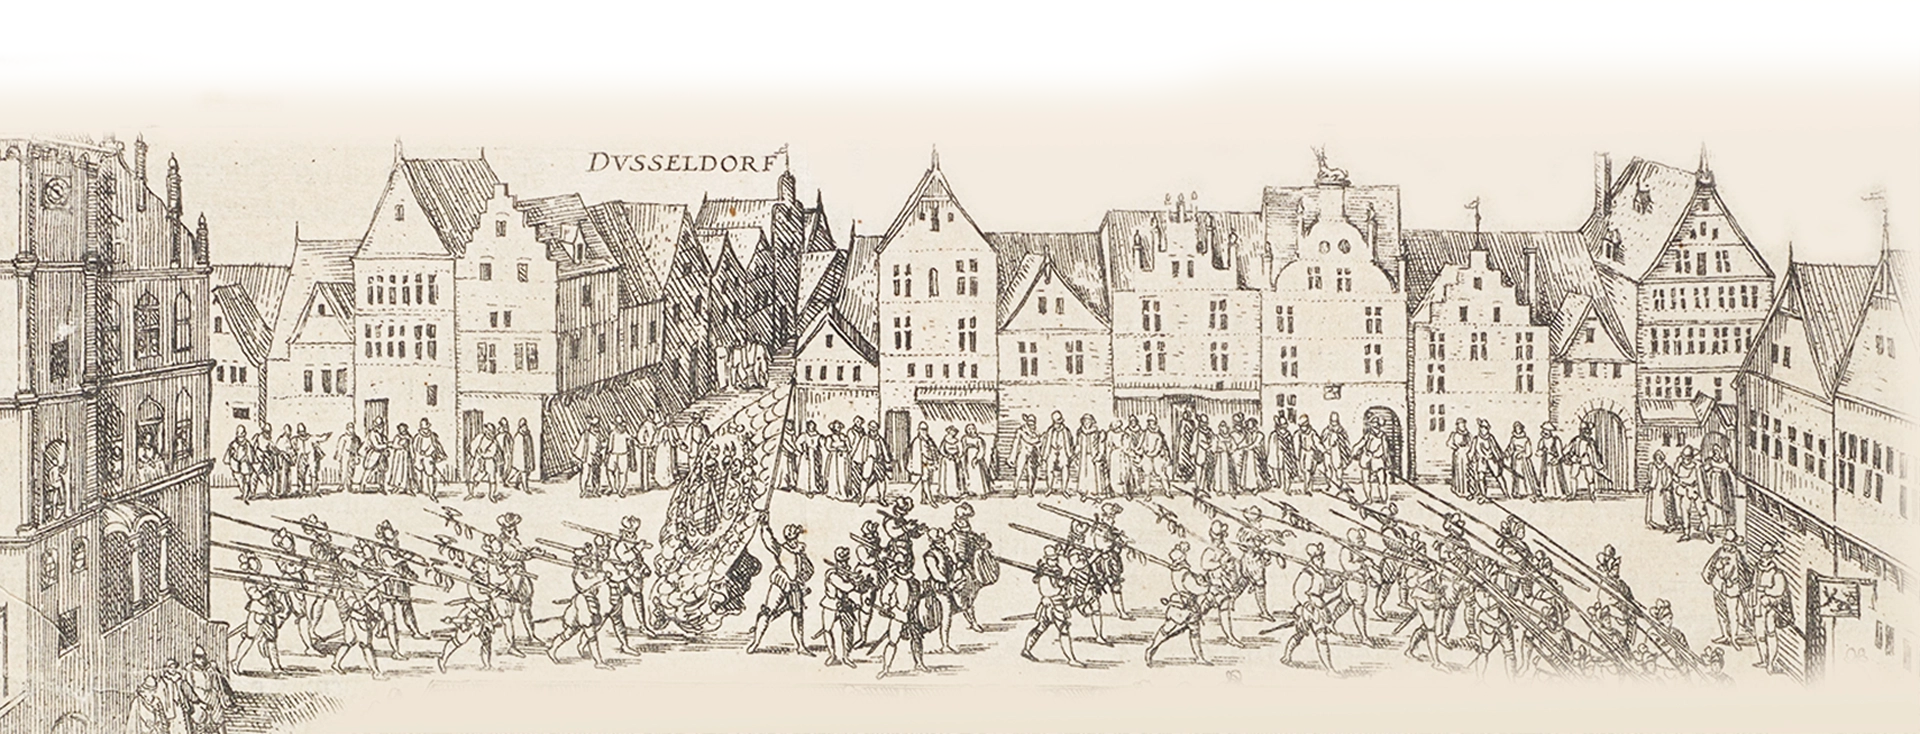
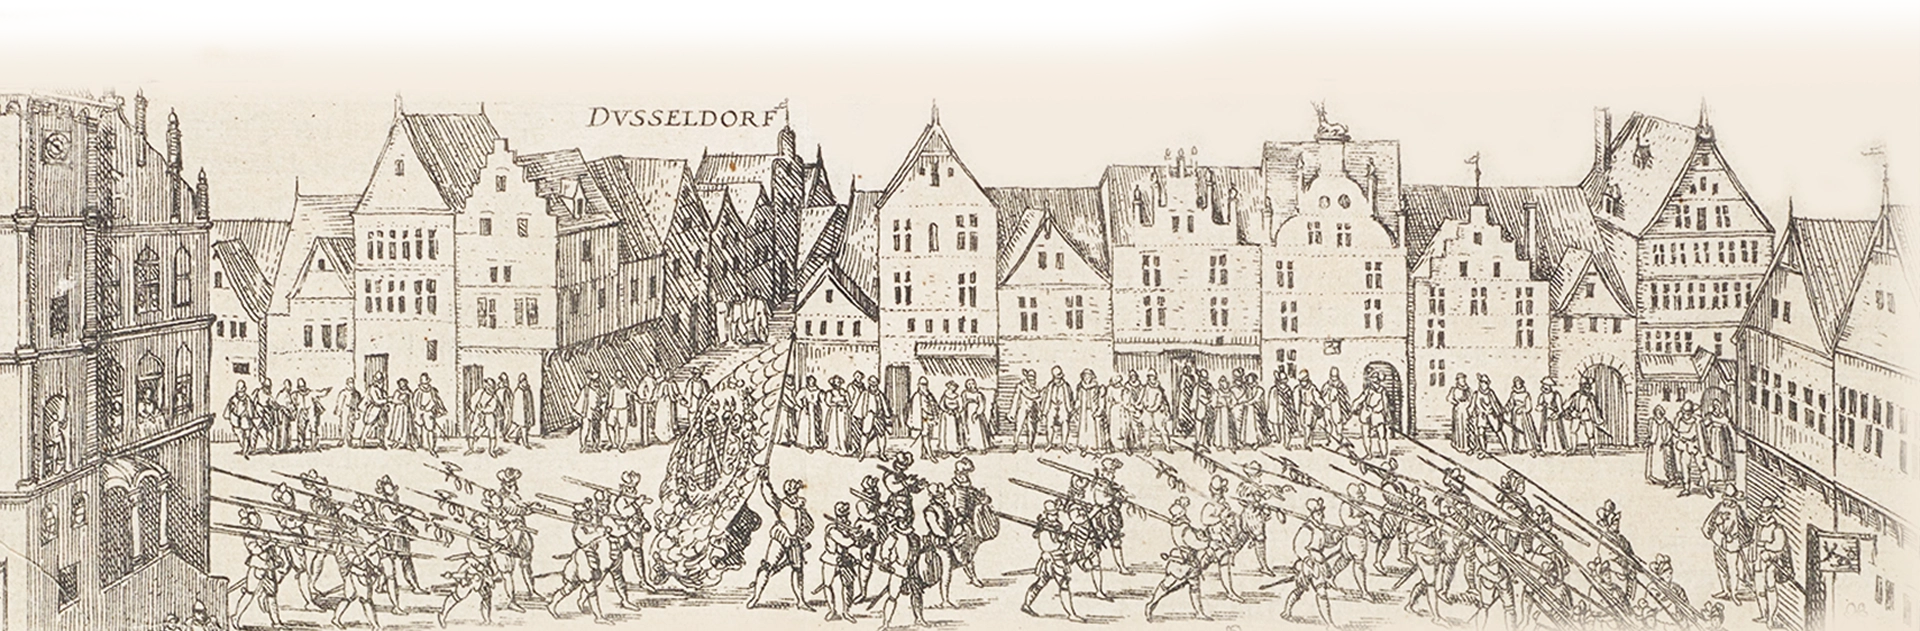
Adjust theme styles

diff --git a/components/Layout.tsx b/components/Layout.tsx
@@ -20,7 +20,7 @@ const useStyles = makeStyles((theme: Theme) => ({
       backgroundRepeat: 'no-repeat',
       backgroundAttachment: 'fixed',
       backgroundPosition: 'bottom center',
-      backgroundSize: '100% 38%',
+      backgroundSize: '100% 33%',
     },
   },
   main: {

diff --git a/components/theme.ts b/components/theme.ts
@@ -182,6 +182,11 @@ theme = {
         paddingLeft: theme.spacing(0.5),
       },
     },
+    MuiDialogContentText: {
+      root: {
+        color: textColor,
+      },
+    },
   },
 };
 
